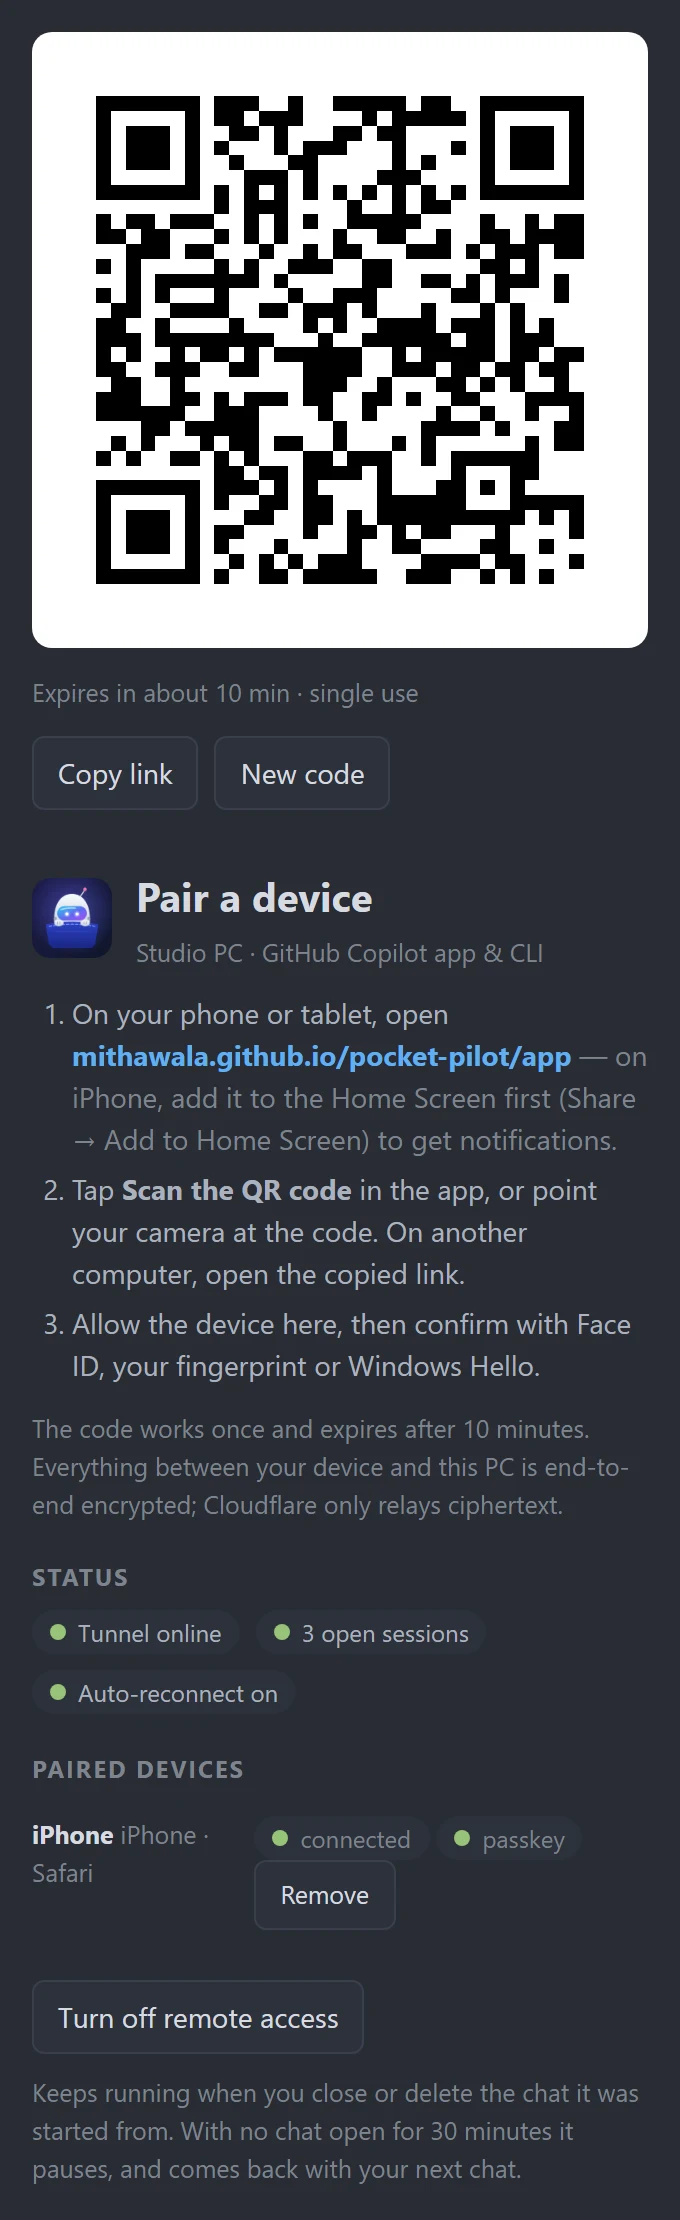
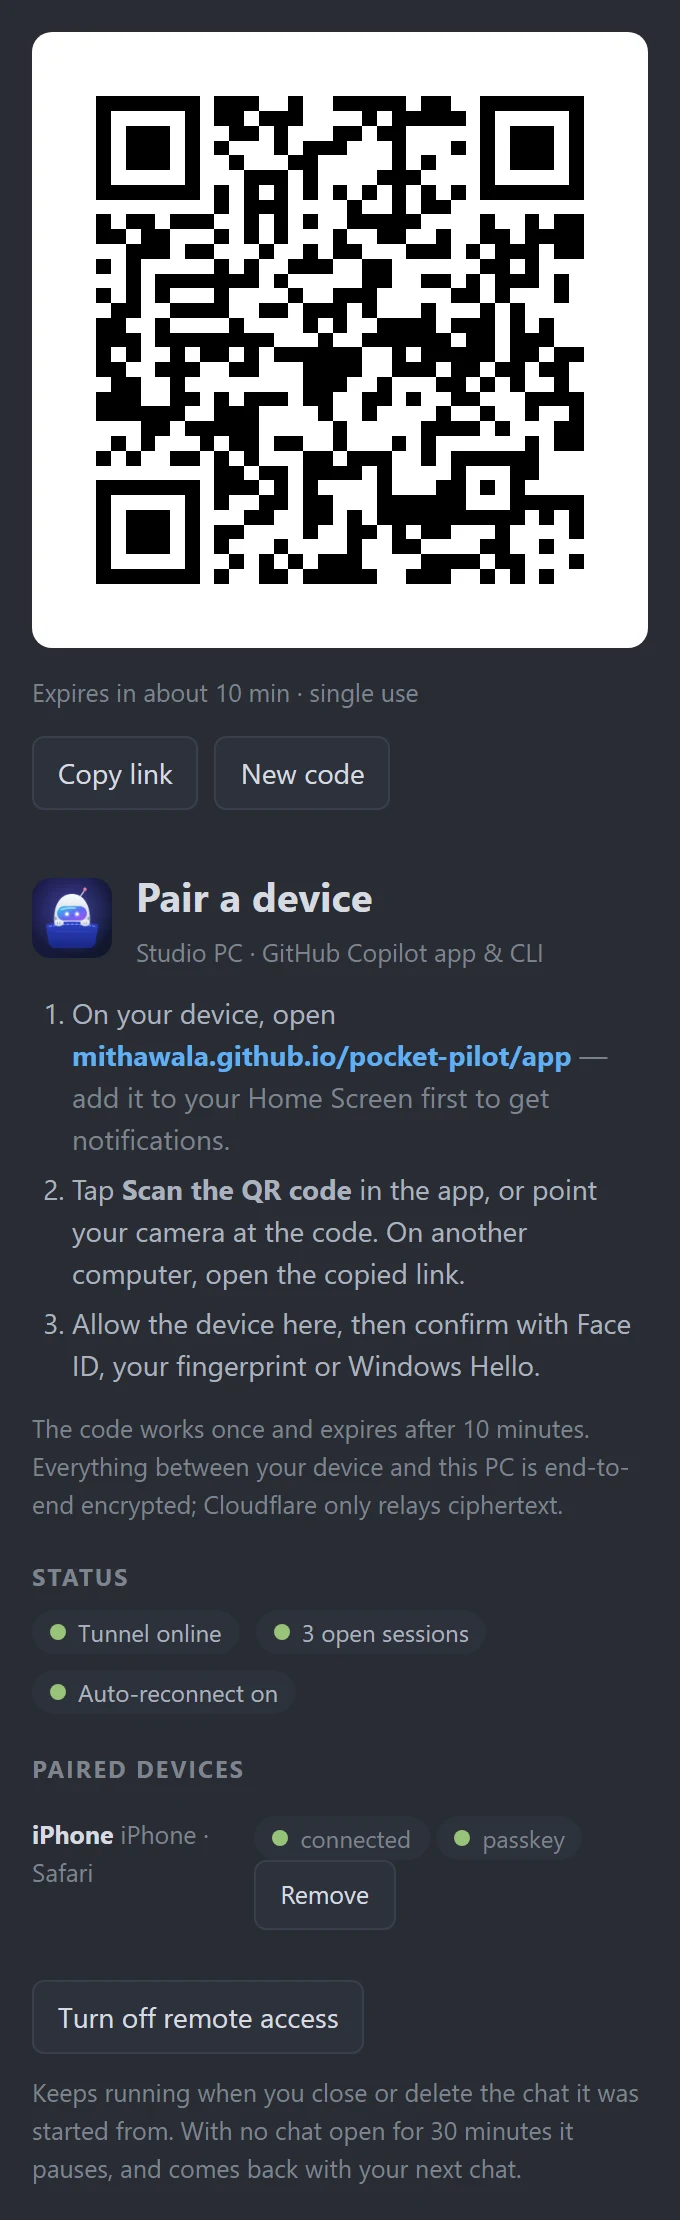
0.4.3: pairing steps say "your device" instead of iPhone
The Pocket Pilot panel in VS Code and in the GitHub Copilot app now reads
"On your device, open mithawala.github.io/pocket-pilot/app - add it to
your Home Screen first to get notifications" and "confirm with Face ID,
your fingerprint or Windows Hello". The app still shows the exact
"Share -> Add to Home Screen" steps on iPhones.

diff --git a/media/sidebar.js b/media/sidebar.js
@@ -82,13 +82,13 @@
           body += `<section class="card qr-card">
             <h2>Pair a device</h2>
             ${appUrl ? `<ol class="pair-steps">
-              <li>On your phone or tablet, open <a href="#" data-a="openUrl" data-url="${esc(appUrl)}">${esc(appHost)}</a><span class="muted"> — on iPhone, add it to the Home Screen first (Share → Add to Home Screen) to get notifications</span></li>
+              <li>On your device, open <a href="#" data-a="openUrl" data-url="${esc(appUrl)}">${esc(appHost)}</a><span class="muted"> — add it to your Home Screen first to get notifications</span></li>
               <li>Tap <b>Scan the QR code</b> in the app, or point your camera at it:</li>
             </ol>` : '<p class="scan">Scan with your phone or tablet camera</p>'}
             <div class="qr">${st.pairing.svg}</div>
             <p class="muted small">Single use · expires in <b id="cd">${countdown(st.pairing.expiresAt)}</b></p>
             <div class="btns"><button class="secondary" data-a="newCode">New code</button><button class="secondary" data-a="copyLink">Copy link</button></div>
-            ${appUrl ? '<ol class="pair-steps" start="3"><li>Click <b>Allow</b> when VS Code asks, then confirm with Face ID or your fingerprint.</li></ol>' : ''}
+            ${appUrl ? '<ol class="pair-steps" start="3"><li>Click <b>Allow</b> when VS Code asks, then confirm with Face ID, your fingerprint or Windows Hello.</li></ol>' : ''}
             <p class="muted small">Another computer? Open the copied link there.</p>
             <p class="muted small fp">PC fingerprint <code>${esc(st.fingerprint)}</code></p>
             ${st.settings?.pwaFallback ? `<p class="warn small">The Pocket Pilot app isn't published at ${esc(st.settings.pwaUrl)} yet — this code uses the copy served through the tunnel (re-pair after VS Code restarts).</p>` : ''}

diff --git a/pwa/js/net/host-connection.js b/pwa/js/net/host-connection.js
@@ -5,7 +5,7 @@ import { b64u, unb64u } from '../core/bytes.js';
 import { openSocket, SocketClosedError } from './socket.js';
 import { lookupHostUrl } from './rendezvous.js';
 
-export const APP_VERSION = '0.4.2';
+export const APP_VERSION = '0.4.3';
 
 export class PairingError extends Error {
   constructor(code, message, { untrusted = false, peerCode = '' } = {}) {

diff --git a/CHANGELOG.md b/CHANGELOG.md
@@ -1,5 +1,9 @@
 # Changelog
 
+## 0.4.3
+
+- **Pairing steps talk about your device, not an iPhone.** The Pocket Pilot panel in VS Code and in the GitHub Copilot app now reads *On your device, open mithawala.github.io/pocket-pilot/app — add it to your Home Screen first to get notifications*, and you confirm *with Face ID, your fingerprint or Windows Hello*. On an iPhone, the app itself still shows the exact *Share → Add to Home Screen* steps.
+
 ## 0.4.2
 
 - **The Pocket Pilot panel tells you where the app is**, in VS Code and in the GitHub Copilot app. Pairing is now three numbered steps: open **mithawala.github.io/pocket-pilot/app** on your device (with a tip to add it to the iPhone Home Screen first), scan the QR code in the app or with the camera, and click **Allow** on the PC.
